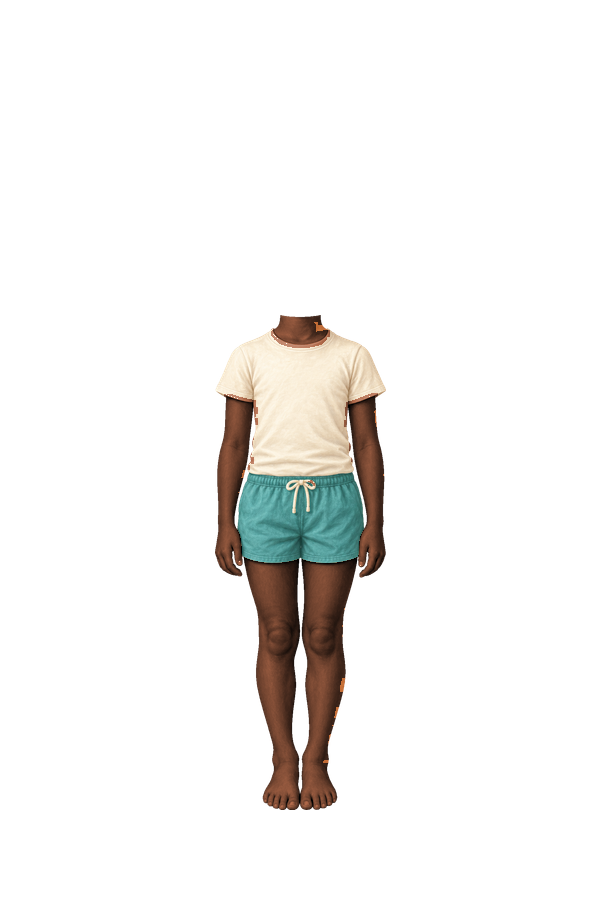
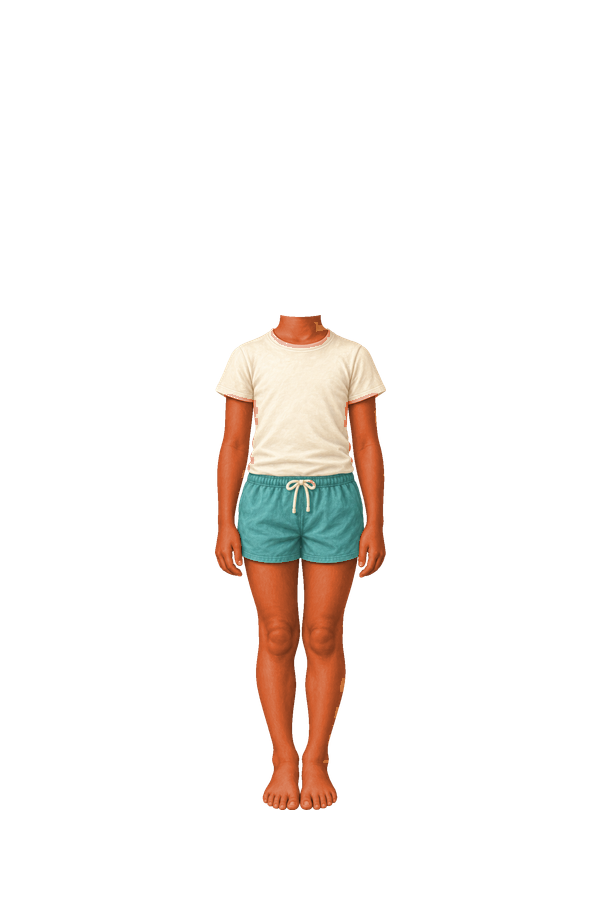
Fix head/body skin-tone mismatch and add missing eye-color support
Skin matching: the body's 5 recolored skin tones were targeted at the
character.skin swatch hex (e.g. deep=#4b2c24), but the AI-generated
heads never actually landed on that exact hex for the same nominal
tone — two independent pipelines producing different real colors for
the same label. Re-targeted the body recolor at each head's own
measured average skin color instead, so body now visually matches
head at the neck seam for every skin tone (verified: deep head
188,57,36 vs. previous body 89,52,43 — a stark mismatch — now body
lands at 209,102,56, much closer to the head's actual tone).

Eye color: painterly heads were baked with a fixed dark-brown iris,
so the eye-color picker did nothing once a painterly head replaced
the SVG fallback — same class of bug as the earlier hair-color gap.
Generated 4 eye-color variants (hazel/green/blue/gray; brown is the
heads' own baked color) for all 44 shipped head files by locally
recoloring only iris-classified pixels within each hairstyle's
measured eye-socket position (positions differ meaningfully between
hairstyles — curls/short/bob/coils each needed their own coordinates,
found by visual crop inspection after an automatic dark-pixel
clustering approach kept mistaking hair/eyebrow shadow for iris).
176 new files (44 heads x 4 colors). Wired via painterlyHeadUrl()
appending -eyes-<id> to the resolved base filename.

Changed region(s): [[0.36, 0.4356, 0.66, 0.9022], [0.45, 0.3422, 0.54, 0.4044]]

diff --git a/src/LittleJetterApp.tsx b/src/LittleJetterApp.tsx
@@ -247,10 +247,16 @@ const PAINTERLY_HEAD_ASSETS: Record<string, Record<string, Record<string, string
   },
 };
 
+// Every shipped head has an eye-recolored variant alongside it
+// (<name>-eyes-<id>.png) for every non-default eye color — the heads were
+// baked with a fixed dark-brown iris, so this is what makes the eye-color
+// picker actually do something once a painterly head is showing.
 function painterlyHeadUrl(character: Character): string | undefined {
   const bySkin = PAINTERLY_HEAD_ASSETS[character.hairStyle ?? 'curls']?.[character.skin];
   if (!bySkin) return undefined;
-  return bySkin[character.hair] ?? bySkin.brown;
+  const base = bySkin[character.hair] ?? bySkin.brown;
+  if (!base || character.eyes === 'brown') return base;
+  return base.replace(/\.png$/, `-eyes-${character.eyes}.png`);
 }
 
 // Painterly bare-limbs body base (arms/torso/legs), one per skin tone, replacing
@@ -276,7 +282,7 @@ function CatalogDoll({ destinationId, picks, character, garmentColors }: { desti
   return <div className="little-catalog-doll" data-template={catalog.template.id}>
     <ClassicDoll picks={picks} character={character} garmentColors={garmentColors} hiddenLayers={hiddenLayers} />
     {bodyUrl && <img className="little-illustrated-layer layer-body" src={bodyUrl} alt="" aria-hidden="true" key={`body-${character.skin}`} />}
-    {headUrl && <img className="little-illustrated-layer layer-face" src={headUrl} alt="" aria-hidden="true" key={`head-${character.hairStyle}-${character.skin}-${character.hair}`} />}
+    {headUrl && <img className="little-illustrated-layer layer-face" src={headUrl} alt="" aria-hidden="true" key={`head-${character.hairStyle}-${character.skin}-${character.hair}-${character.eyes}`} />}
     {illustrated.map(({ group, item }) => item && <img className={`little-illustrated-layer layer-${item.slot}`} src={catalogImageFor(item, garmentColors[item.id])} alt="" aria-hidden="true" key={`${group}-${item.id}-${garmentColors[item.id] ?? 'default'}`} />)}
   </div>;
 }
